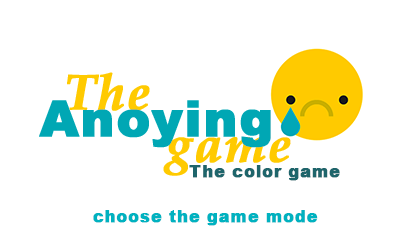
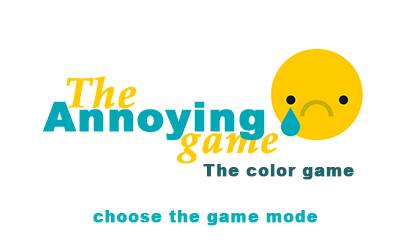
The Annoying Game

Changed region(s): [[0.09, 0.28, 0.9, 0.728]]

diff --git a/Students/30422/Vatavului S. Doru Mihai/TheAnoyingGame/src/anoyingame/ui/GameChooser.java b/Students/30422/Vatavului S. Doru Mihai/TheAnoyingGame/src/anoyingame/ui/GameChooser.java
@@ -12,8 +12,8 @@ import javax.swing.JPanel;
 public class GameChooser extends JFrame {
 
 	private JPanel blankPanel = new JPanel();
-	private JButton colorGameButton = new JButton("The Anoying Color Game");
-	private JButton memoryGameButton = new JButton("The Even More Anoying Memory Game");
+	private JButton colorGameButton = new JButton("The Annoying Color Game");
+	private JButton memoryGameButton = new JButton("The Even More Annoying Memory Game");
 	private JLabel imageLabel;
 	private ImageIcon gameLogo;
 
